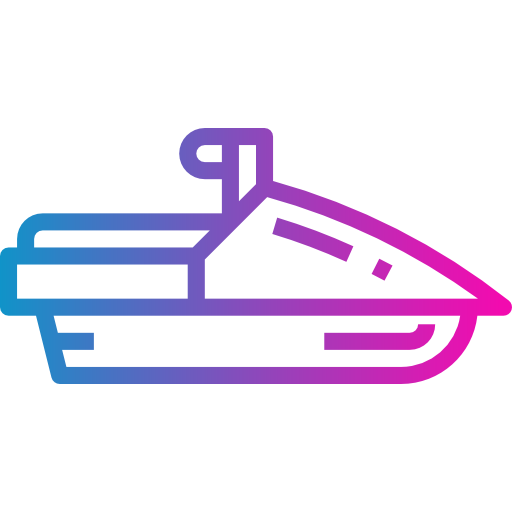
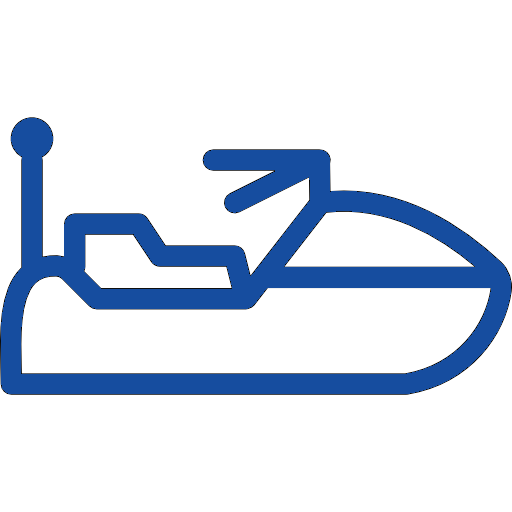
update

Changed region(s): [[0.0, 0.2188, 1.0, 0.7812]]

diff --git a/index.html b/index.html
@@ -212,7 +212,7 @@ margin-left:124px;
 			<div class="myNew">
 			<a href="motorInfo.html" style="height:70px;" class="services text-center ">
 									<span class="icon">
-									<img src="images/motor5.png" style="width:50px;">
+									<img src="images/motor72.png" style="width:40px;">
 									</span>
 								</a>
 			<p class="textOfInsurance" style="text-align:center;margin-top:-24px;font-size:13px;">Motor</p>
@@ -220,7 +220,7 @@ margin-left:124px;
 			<div class="myNew">
 			<a href="travelInfo.html" style="height:70px;" class="services text-center ">
 									<span class="icon">
-									<img src="images/travel5.png" style="width:50px;">
+									<img src="images/travel73.png" style="width:40px;">
 									
 									</span>
 									
@@ -231,7 +231,7 @@ margin-left:124px;
 			<div class="myNew">
 			<a href="familyMedicalInfo.html" style="height:70px;" class="services text-center ">
 									<span class="icon">
-									<img src="images/familyMedical.png" style="width:50px;">
+									<img src="images/familyMedical.png" style="width:40px;">
 									</span>
 									
 								</a>
@@ -241,7 +241,7 @@ margin-left:124px;
 			<div class="myNew">
 			<a href="home.html" style="height:70px;" class="services text-center ">
 									<span class="icon">
-									<img src="images/home3.png" style="width:50px;">
+									<img src="images/home72.png" style="width:40px;">
 									</span>
 								</a>
 			<p class="textOfInsurance" style="text-align:center;margin-top:-24px;font-size:13px;">Home</p>
@@ -249,7 +249,7 @@ margin-left:124px;
 			<div class="myNew">
 			<a href="yacht.html" style="height:70px;" class="services text-center ">
 									<span class="icon">
-									<img src="images/yacht5.png" style="width:50px;">
+									<img src="images/yacht.png" style="width:40px;">
 									</span>
 									
 								</a>
@@ -258,7 +258,7 @@ margin-left:124px;
 			<div class="myNew">
 			<a href="jetski.html" style="height:70px;" class="services text-center ">
 									<span class="icon">
-									<img src="images/jet-ski2.png" style="width:50px;">
+									<img src="images/jet-ski.png" style="width:40px;">
 									</span>
 								</a>
 			<p class="textOfInsurance" style="text-align:center;margin-top:-24px;font-size:13px;">Jet Ski</p>
@@ -274,7 +274,7 @@ margin-left:124px;
 			<div class="myNew">
 			<a href="property.html" style="height:70px;" class="services text-center ">
 									<span class="icon">
-									<img src="images/property2.png" style="width:50px;">
+									<img src="images/property6.png" style="width:40px;">
 									</span>
 								</a>
 			<p class="textOfInsurance" style="text-align:center;margin-top:-24px;font-size:13px;">Property</p>
@@ -283,7 +283,7 @@ margin-left:124px;
 			<div class="myNew">
 			<a href="engineering.html" style="height:70px;" class="services text-center ">
 									<span class="icon">
-									<img src="images/engineering.png" style="width:50px;">
+									<img src="images/engineering6.png" style="width:40px;">
 									</span>
 									
 								</a>
@@ -293,7 +293,7 @@ margin-left:124px;
 			<div class="myNew">
 			<a href="groupMedical.html" style="height:70px;" class="services text-center ">
 									<span class="icon">
-									<img src="images/groupMedical.png" style="width:50px;">
+									<img src="images/groupMedical6.png" style="width:40px;">
 									</span>
 									
 								</a>
@@ -306,7 +306,7 @@ margin-left:124px;
 			<div class="myNew">
 			<a href="groupLife.html" style="height:70px;" class="services text-center ">
 									<span class="icon">
-									<img src="images/groupLife.png" style="width:50px;">
+									<img src="images/groupLife6.png" style="width:40px;">
 									</span>
 								</a>
 			<p class="textOfInsurance" style="text-align:center;margin-top:-24px;font-size:13px;">Group Life</p>
@@ -315,7 +315,7 @@ margin-left:124px;
 			<div class="myNew">
 			<a href="marine.html" style="height:70px;" class="services text-center ">
 									<span class="icon">
-									<img src="images/marine2.png" style="width:50px;">
+									<img src="images/marine2.png" style="width:40px;">
 									</span>
 									
 								</a>
@@ -325,7 +325,7 @@ margin-left:124px;
 			<div class="myNew">
 			<a href="aviation.html" style="height:70px;" class="services text-center ">
 									<span class="icon">
-									<img src="images/aviation5.png" style="width:50px;">
+									<img src="images/aviation5.png" style="width:40px;">
 									</span>
 									
 								</a>
@@ -337,7 +337,7 @@ margin-left:124px;
 			<a href="miscellaneous.html" style="height:70px;" class="services text-center ">
 									<span class="icon">
 									
-									<img src="images/settings2.png" style="width:50px;">
+									<img src="images/settings2.png" style="width:40px;">
 									</span>
 								</a>
 			<p class="textOfInsurance" style="text-align:center;margin-top:-24px;font-size:13px;">Miscellaneous</p>
@@ -346,7 +346,7 @@ margin-left:124px;
 			<div class="myNew">
 			<a href="motorfleet.html" style="height:70px;" class="services text-center ">
 									<span class="icon">
-									<img src="images/motorFleet2.png" style="width:50px;height:40px;">
+									<img src="images/motorFleet75.png" style="width:40px;">
 									</span>
 									
 								</a>
@@ -356,7 +356,7 @@ margin-left:124px;
 			<div class="myNew">
 			<a href="liability.html" style="height:70px;" class="services text-center ">
 									<span class="icon">
-									<img src="images/liability5.png" style="width:50px;">
+									<img src="images/liability5.png" style="width:40px;">
 									</span>
 									
 								</a>
@@ -369,7 +369,7 @@ margin-left:124px;
 			<div class="myNew">
 			<a href="energy.html" style="height:70px;" class="services text-center ">
 									<span class="icon">
-									<img src="images/energy2.png" style="width:50px;">
+									<img src="images/energy2.png" style="width:40px;">
 									</span>
 								</a>
 			<p class="textOfInsurance" style="text-align:center;margin-top:-24px;font-size:13px;">Energy</p>
@@ -378,7 +378,7 @@ margin-left:124px;
 			<div class="myNew">
 			<a href="other.html" style="height:70px;" class="services text-center ">
 									<span class="icon">
-									<img src="images/other5.png" style="width:50px;">
+									<img src="images/other5.png" style="width:40px;">
 									</span>
 									
 								</a>

diff --git a/css/style.css b/css/style.css
@@ -668,7 +668,7 @@ h1, h2, h3, h4, h5, h6, figure {
     margin: 0 auto;
     margin-bottom: 15px;
     display: block; 
-	padding:5px;
+	padding:10px;
 	}
     .services .icon i {
       font-size: 30px;
